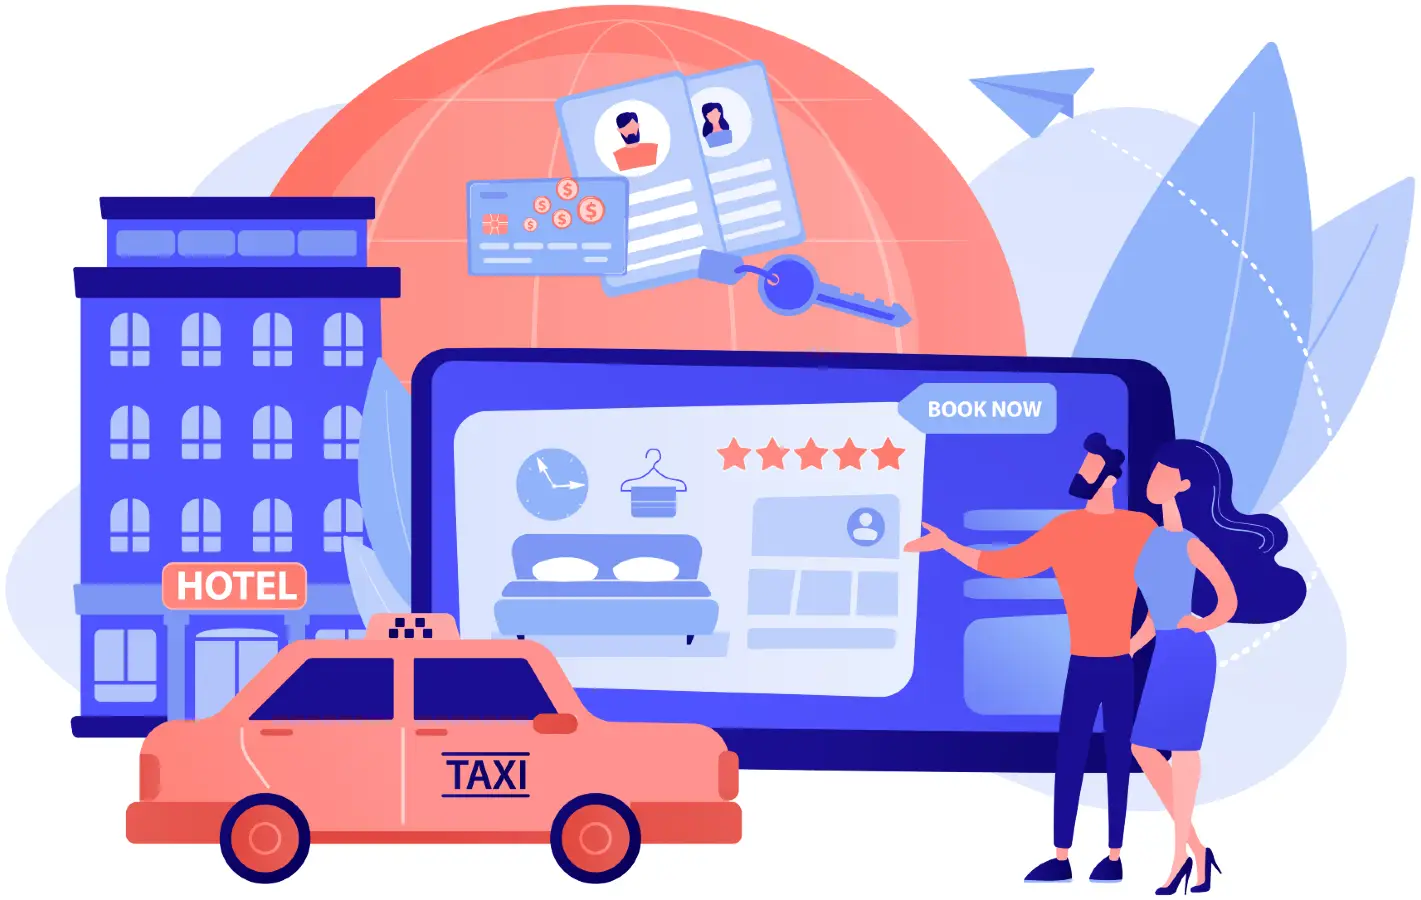
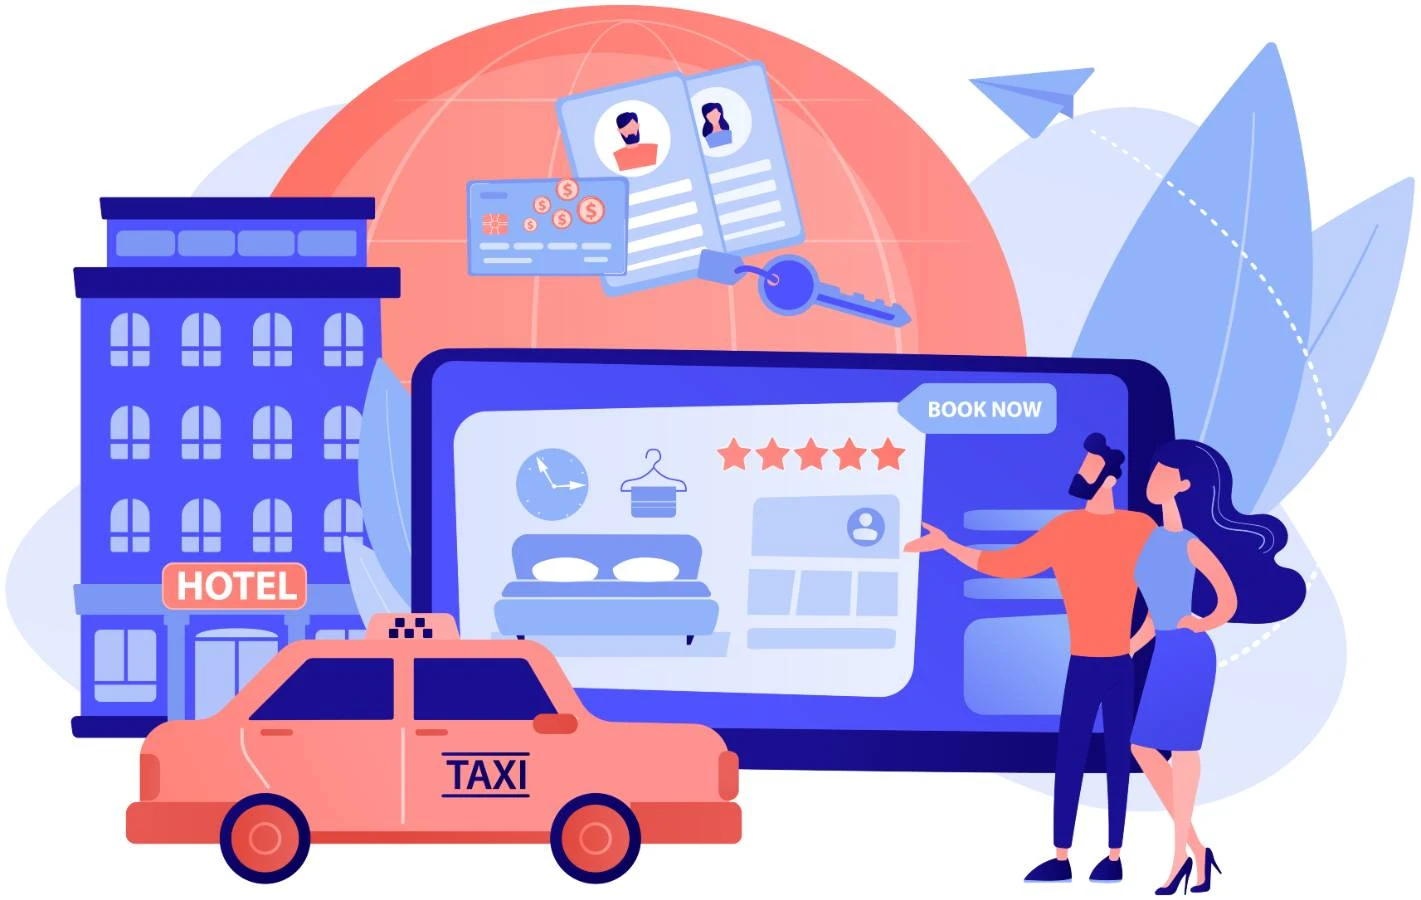
Change images to webp where possible for better loading performances

diff --git a/assets/css/style.css b/assets/css/style.css
@@ -146,11 +146,11 @@ header {
 }
 
 #hero-image {
-    background-image: url('../images/hotel-search-booking.webp'), url('../images/hotel-search-booking.jpg') ;
+    background-image: url('../images/hotel-search-booking.webp');
 }
 
 #hero-image-services {
-    background-image: url('../images/destination-search.png');
+    background-image: url('../images/destination-search.webp');
 }
 
 /* clients list styling on index.html */
@@ -220,7 +220,7 @@ margin: 32px auto;
 }
 
 #ppc-image {
-    background-image: url('../images/hotel-search.webp'), url('../images/hotel-search.jpg');
+    background-image: url('../images/hotel-search.webp');
     background-repeat: no-repeat;
     background-position: center center;
     background-size: contain;

diff --git a/services.html b/services.html
@@ -15,7 +15,7 @@
     <!-- Header and navigation -->
     <header>
         <div class="max-width-container">
-            <a href="index.html" aria-label="Link to homepage"><img id="logo" src="assets/images/digibooking.png" alt="Digibooking logo"></a>
+            <a href="index.html" aria-label="Link to homepage"><img id="logo" src="assets/images/digibooking-logo-footer.webp" alt="Digibooking logo"></a>
             <nav aria-label="navigation menu">
                 <ul id="menu">
                     <li>

diff --git a/404.html b/404.html
@@ -49,7 +49,7 @@
     <footer>
         <div class="max-width-container">
             <div>
-                <a href="index.html" aria-label="Link to homepage"><img id="logo-footer" src="assets/images/digibooking-logo-footer.png" alt="Digibooking logo"></a>
+                <a href="index.html" aria-label="Link to homepage"><img id="logo-footer" src="assets/images/digibooking-logo-footer.webp" alt="Digibooking logo"></a>
             </div>
             <div>
                 <ul>

diff --git a/contact.html b/contact.html
@@ -63,7 +63,7 @@
     <footer>
         <div class="max-width-container">
             <div>
-                <a href="index.html" aria-label="Link to homepage"><img id="logo-footer" src="assets/images/digibooking-logo-footer.png" alt="Digibooking logo"></a>
+                <a href="index.html" aria-label="Link to homepage"><img id="logo-footer" src="assets/images/digibooking-logo-footer.webp" alt="Digibooking logo"></a>
             </div>
             <div>
                 <ul>

diff --git a/index.html b/index.html
@@ -93,7 +93,7 @@
     <footer>
         <div class="max-width-container">
             <div>
-                <a href="index.html" aria-label="Link to homepage"><img id="logo-footer" src="assets/images/digibooking-logo-footer.png" alt="Digibooking logo"></a>
+                <a href="index.html" aria-label="Link to homepage"><img id="logo-footer" src="assets/images/digibooking-logo-footer.webp" alt="Digibooking logo"></a>
             </div>
             <div>
                 <ul>
